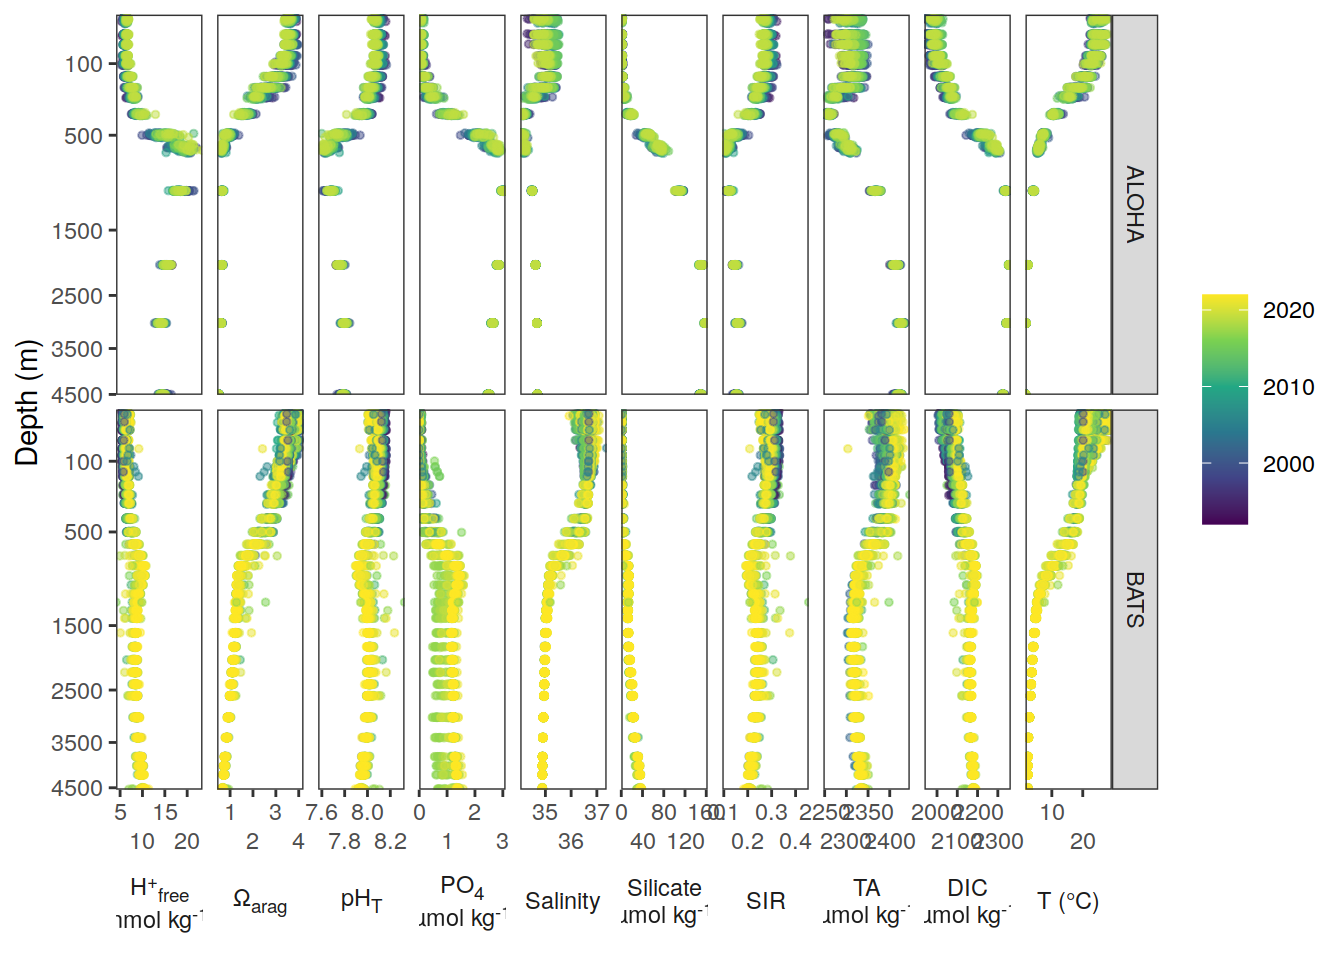
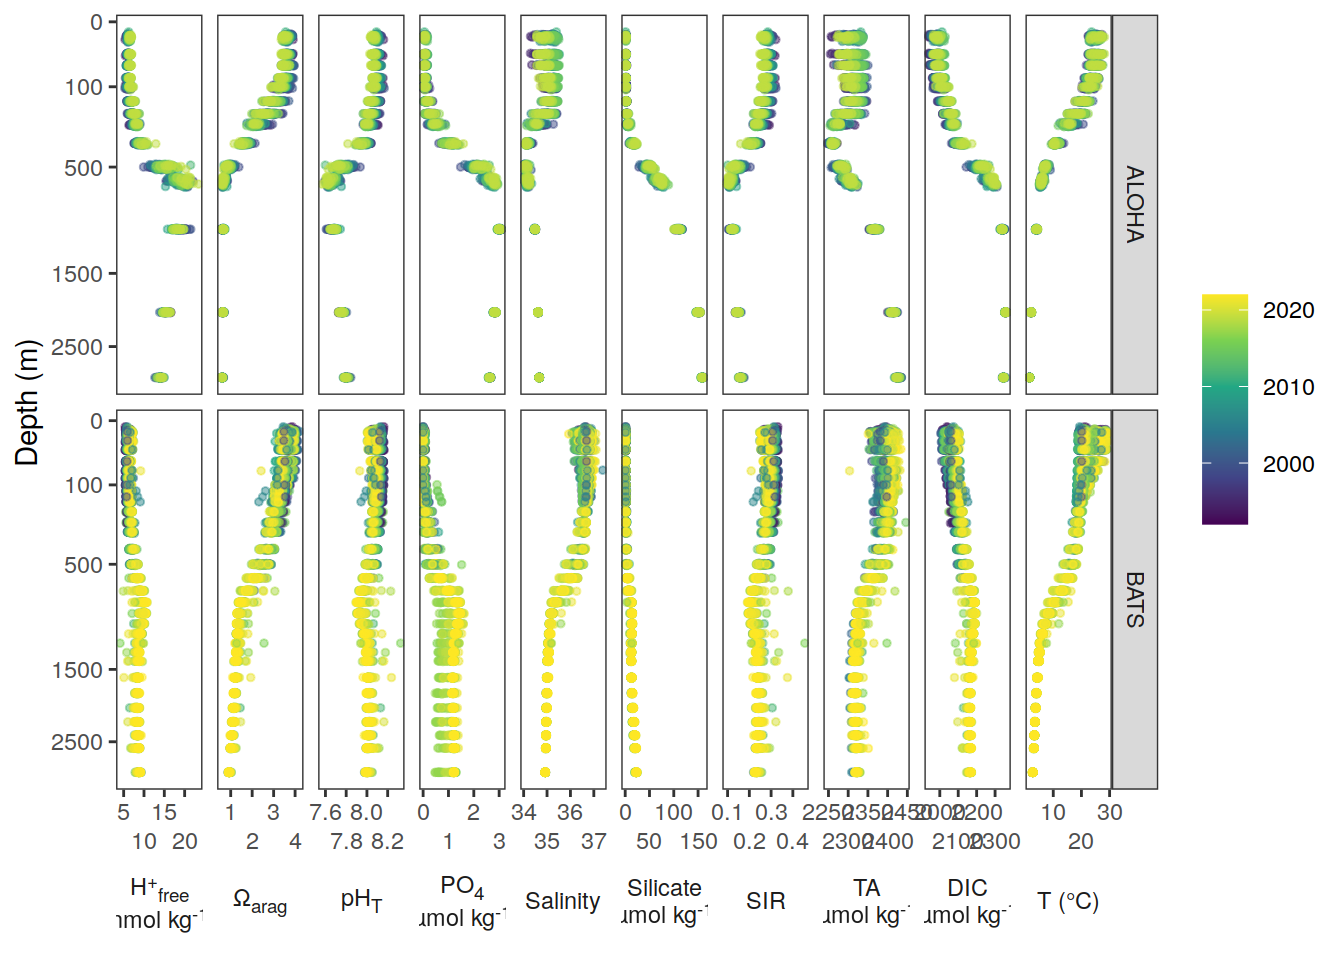
Build site.

diff --git a/docs/average_OIA.html b/docs/average_OIA.html
@@ -546,15 +546,15 @@ project makes it easier to run your code on other machines.</p>
 <div class="panel panel-default">
 <div class="panel-heading">
 <p class="panel-title">
-<a data-toggle="collapse" data-parent="#workflowr-checks" href="#strongRepositoryversionstrongahrefhttpsgithubcomjensdanielmuelleroceaninterioracidificationtree235e7b252f37672b7b164902be618660d7c8e807targetblank235e7b2a">
+<a data-toggle="collapse" data-parent="#workflowr-checks" href="#strongRepositoryversionstrongahrefhttpsgithubcomjensdanielmuelleroceaninterioracidificationtree72930125a078cfcf764ded5e1c56d97ed2825a6dtargetblank7293012a">
 <span class="glyphicon glyphicon-ok text-success"
 aria-hidden="true"></span> <strong>Repository version:</strong>
-<a href="https://github.com/jens-daniel-mueller/ocean_interior_acidification/tree/235e7b252f37672b7b164902be618660d7c8e807" target="_blank">235e7b2</a>
+<a href="https://github.com/jens-daniel-mueller/ocean_interior_acidification/tree/72930125a078cfcf764ded5e1c56d97ed2825a6d" target="_blank">7293012</a>
 </a>
 </p>
 </div>
 <div
[2 lines of base64/hex data omitted]
 class="panel-collapse collapse">
 <div class="panel-body">
 <p>
@@ -564,7 +564,7 @@ reproducibility.
 </p>
 <p>
 The results in this page were generated with repository version
-<a href="https://github.com/jens-daniel-mueller/ocean_interior_acidification/tree/235e7b252f37672b7b164902be618660d7c8e807" target="_blank">235e7b2</a>.
+<a href="https://github.com/jens-daniel-mueller/ocean_interior_acidification/tree/72930125a078cfcf764ded5e1c56d97ed2825a6d" target="_blank">7293012</a>.
 See the <em>Past versions</em> tab to see a history of the changes made
 to the R Markdown and HTML files.
 </p>
@@ -634,6 +634,40 @@ Message
 </tr>
 </thead>
 <tbody>
+<tr>
+<td>
+Rmd
+</td>
+<td>
+<a href="https://github.com/jens-daniel-mueller/ocean_interior_acidification/blob/72930125a078cfcf764ded5e1c56d97ed2825a6d/analysis/average_OIA.Rmd" target="_blank">7293012</a>
+</td>
+<td>
+jens-daniel-mueller
+</td>
+<td>
+2023-07-10
+</td>
+<td>
+obs-based trend uncertainty revised
+</td>
+</tr>
+<tr>
+<td>
+html
+</td>
+<td>
+<a href="https://rawcdn.githack.com/jens-daniel-mueller/ocean_interior_acidification/fa664c1fc0f9a6de63f0159afbe858c497cbfc97/docs/average_OIA.html" target="_blank">fa664c1</a>
+</td>
+<td>
+jens-daniel-mueller
+</td>
+<td>
+2023-07-10
+</td>
+<td>
+Build site.
+</td>
+</tr>
 <tr>
 <td>
 Rmd
@@ -3796,11 +3830,11 @@ date_range &lt;-
 
 
 TS_product %&gt;% 
-  filter(!is.na(value)) %&gt;% 
+  filter(!is.na(value),
+         depth &lt;= 3000) %&gt;% 
   ggplot(aes(value, depth, col = year)) +
   geom_point(size = 1, alpha = 0.5) +
   scale_color_viridis_c() +
-  coord_cartesian(expand = FALSE) +
   labs(y = &quot;Depth (m)&quot;) +
   theme(
     legend.title = element_blank(),
@@ -6188,6 +6222,17 @@ Date
 </tr>
 </thead>
 <tbody>
+<tr>
+<td>
+<a href="https://github.com/jens-daniel-mueller/ocean_interior_acidification/blob/fa664c1fc0f9a6de63f0159afbe858c497cbfc97/docs/figure/average_OIA.Rmd/depth_layer_total_change-2.png" target="_blank">fa664c1</a>
+</td>
+<td>
+jens-daniel-mueller
+</td>
+<td>
+2023-07-10
+</td>
+</tr>
 <tr>
 <td>
 <a href="https://github.com/jens-daniel-mueller/ocean_interior_acidification/blob/944b43a2756e1769500d196cb57c9d6272635b31/docs/figure/average_OIA.Rmd/depth_layer_total_change-2.png" target="_blank">944b43a</a>

diff --git a/docs/index.html b/docs/index.html
@@ -377,15 +377,15 @@ results.</p>
 <div class="panel panel-default">
 <div class="panel-heading">
 <p class="panel-title">
-<a data-toggle="collapse" data-parent="#workflowr-checks" href="#strongRepositoryversionstrongahrefhttpsgithubcomjensdanielmuelleroceaninterioracidificationtree235e7b252f37672b7b164902be618660d7c8e807targetblank235e7b2a">
+<a data-toggle="collapse" data-parent="#workflowr-checks" href="#strongRepositoryversionstrongahrefhttpsgithubcomjensdanielmuelleroceaninterioracidificationtree72930125a078cfcf764ded5e1c56d97ed2825a6dtargetblank7293012a">
 <span class="glyphicon glyphicon-ok text-success"
 aria-hidden="true"></span> <strong>Repository version:</strong>
-<a href="https://github.com/jens-daniel-mueller/ocean_interior_acidification/tree/235e7b252f37672b7b164902be618660d7c8e807" target="_blank">235e7b2</a>
+<a href="https://github.com/jens-daniel-mueller/ocean_interior_acidification/tree/72930125a078cfcf764ded5e1c56d97ed2825a6d" target="_blank">7293012</a>
 </a>
 </p>
 </div>
 <div
[2 lines of base64/hex data omitted]
 class="panel-collapse collapse">
 <div class="panel-body">
 <p>
@@ -395,7 +395,7 @@ reproducibility.
 </p>
 <p>
 The results in this page were generated with repository version
-<a href="https://github.com/jens-daniel-mueller/ocean_interior_acidification/tree/235e7b252f37672b7b164902be618660d7c8e807" target="_blank">235e7b2</a>.
+<a href="https://github.com/jens-daniel-mueller/ocean_interior_acidification/tree/72930125a078cfcf764ded5e1c56d97ed2825a6d" target="_blank">7293012</a>.
 See the <em>Past versions</em> tab to see a history of the changes made
 to the R Markdown and HTML files.
 </p>
@@ -464,6 +464,23 @@ Message
 </tr>
 </thead>
 <tbody>
+<tr>
+<td>
+html
+</td>
+<td>
+<a href="https://rawcdn.githack.com/jens-daniel-mueller/ocean_interior_acidification/fa664c1fc0f9a6de63f0159afbe858c497cbfc97/docs/index.html" target="_blank">fa664c1</a>
+</td>
+<td>
+jens-daniel-mueller
+</td>
+<td>
+2023-07-10
+</td>
+<td>
+Build site.
+</td>
+</tr>
 <tr>
 <td>
 html
